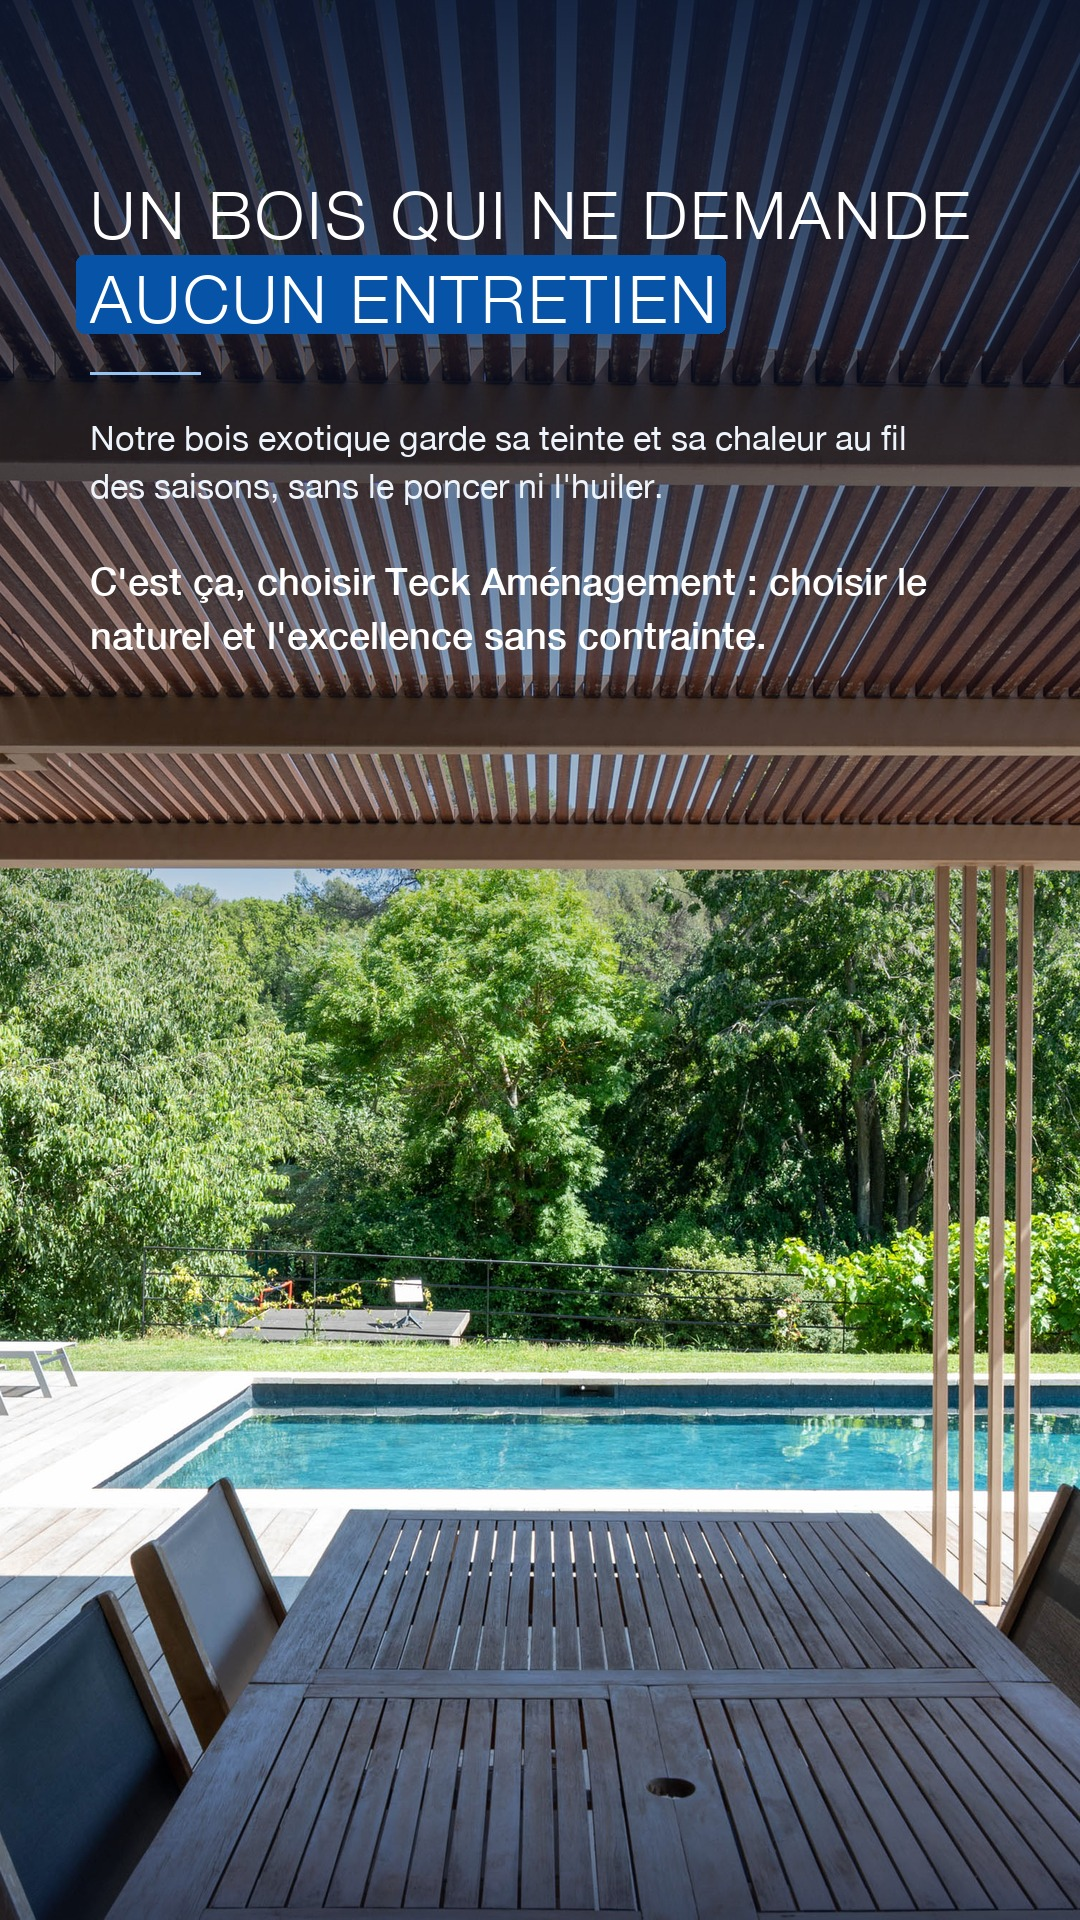
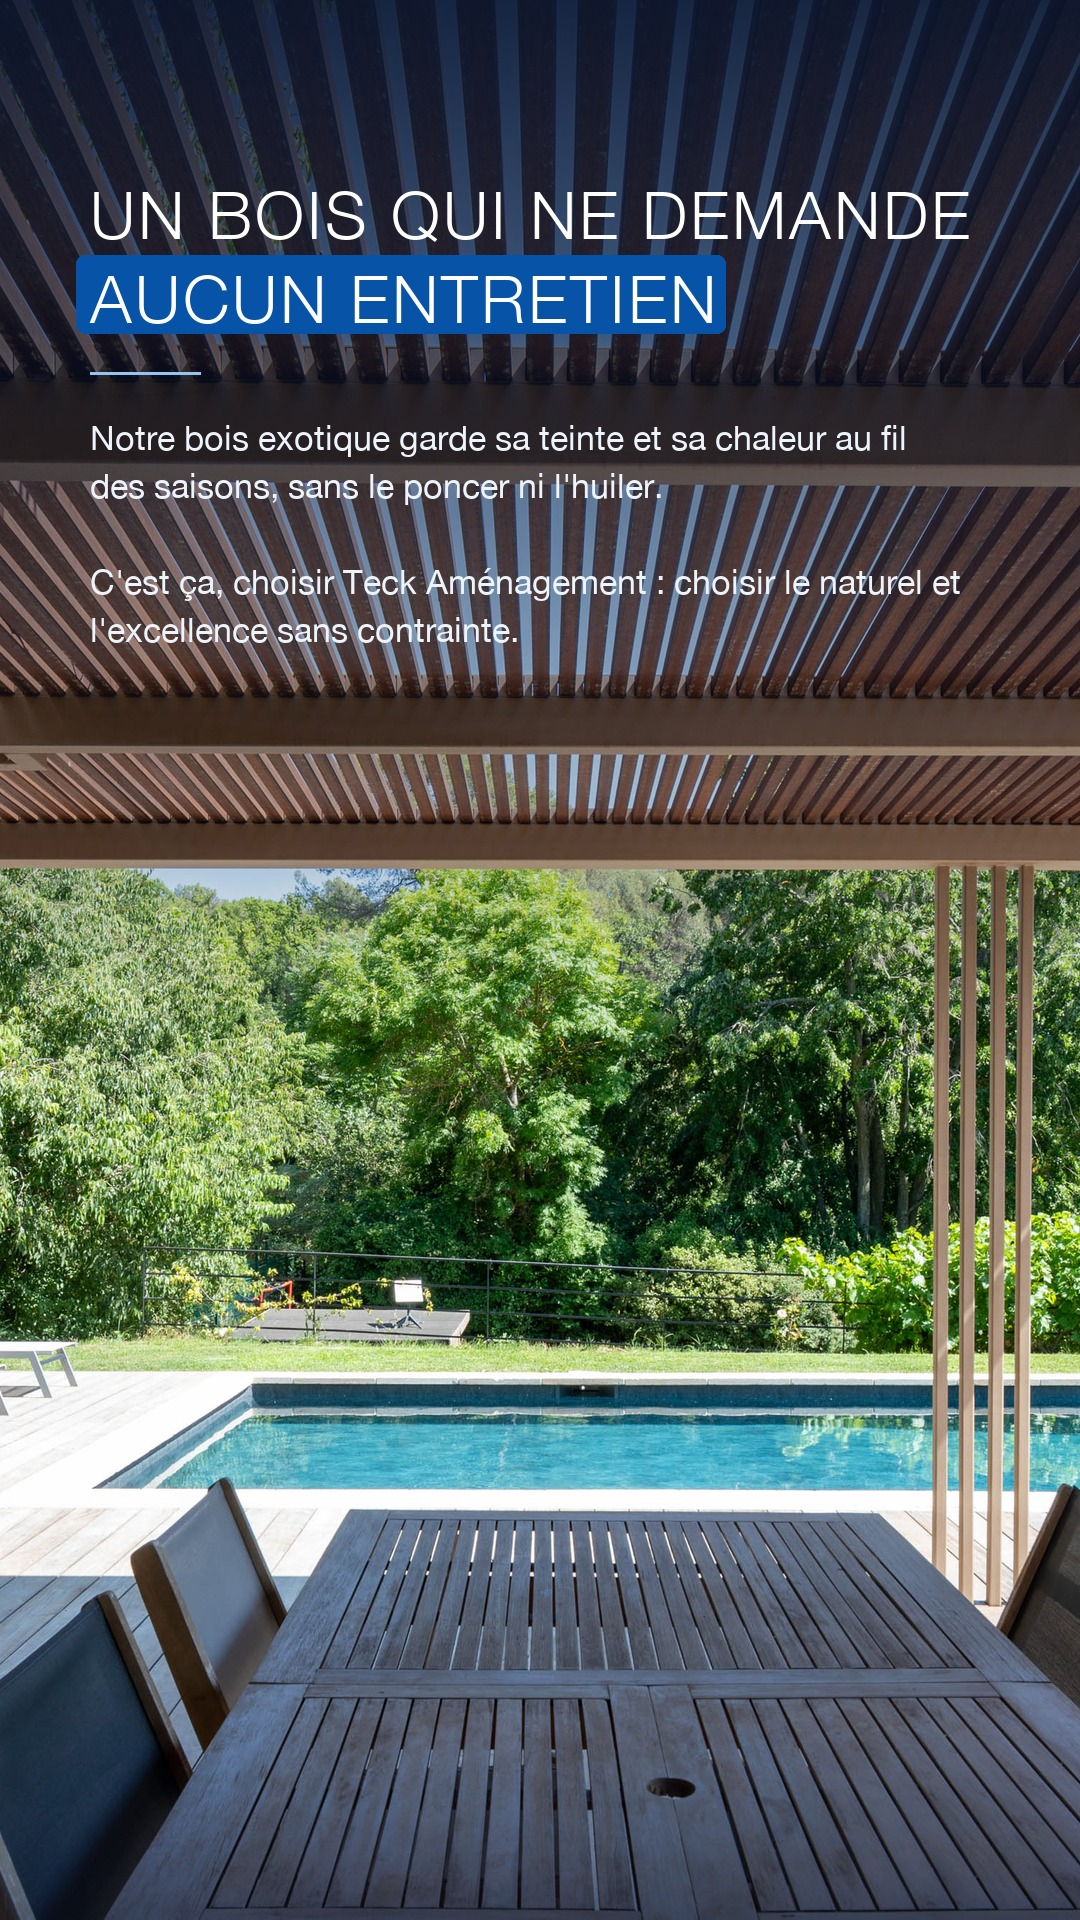
Stories : police unifiée sur S9, et visuels non recadrés dans le calendrier
Sur la story S9, le paragraphe de chute était en Helvetica Medium 38px alors
que l'info au-dessus était en Regular 34px. Les deux sont désormais dans la
même police et la même taille, c'est un seul bloc de texte.

Le calendrier recadrait toutes les vignettes en 4:5, donc une story en 9:16
arrivait tronquée chez le client. Chaque visuel garde maintenant ses vraies
proportions, en carte comme en grand.

Changed region(s): [[0.0917, 0.2812, 0.8861, 0.3438]]

diff --git a/index.html b/index.html
@@ -49,10 +49,15 @@
   .dot{display:inline-block;width:8px;height:8px;border-radius:50%;margin-right:6px;vertical-align:middle}
 
   /* BOARD */
-  .grid{display:grid;grid-template-columns:repeat(auto-fill,minmax(300px,1fr));gap:18px}
+  /* align-items:start — les stories sont en 9:16 et les posts en 4:5, sans ça les
+     cartes courtes s'étirent à la hauteur de la plus grande et laissent un vide. */
+  .grid{display:grid;grid-template-columns:repeat(auto-fill,minmax(300px,1fr));gap:18px;align-items:start}
   .card{background:var(--panel);border:1px solid var(--line);border-radius:16px;overflow:hidden;box-shadow:var(--shadow);display:flex;flex-direction:column}
-  .thumb{aspect-ratio:4/5;background:#e9eff7 center/cover no-repeat;position:relative;cursor:pointer}
-  .thumb.ph{display:flex;align-items:center;justify-content:center;color:#9aa2b1;font-size:13px;text-align:center;padding:16px;flex-direction:column;gap:6px}
+  /* Aucune vignette n'est recadrée : chaque visuel garde ses vraies proportions
+     (post 4:5, story 9:16…), pour que le client voie exactement ce qui sortira. */
+  .thumb{background:#e9eff7;position:relative;cursor:pointer;line-height:0}
+  .thumb img{width:100%;height:auto;display:block}
+  .thumb.ph{aspect-ratio:4/5;line-height:1.5;display:flex;align-items:center;justify-content:center;color:#9aa2b1;font-size:13px;text-align:center;padding:16px;flex-direction:column;gap:6px}
   .num{position:absolute;top:10px;left:10px;background:rgba(6,83,168,.9);color:#fff;font-size:12px;font-weight:700;border-radius:8px;padding:3px 8px;backdrop-filter:blur(4px)}
   .pill{position:absolute;top:10px;right:10px;font-size:11px;font-weight:700;border-radius:999px;padding:4px 10px;color:#fff}
   .cbody{padding:14px 15px 16px;display:flex;flex-direction:column;gap:10px;flex:1}
@@ -504,7 +509,7 @@ function renderBoard(){
     const bl=bodyLen(p.cap), bad=bl<150||bl>400;
     const tag = `<span class="num" style="background:${ty.color}">${ty.icon} ${ty.short} #${p.num}</span>`;
     const thumb = p.img
-      ? `<div class="thumb" style="${bg(p)}" onclick="openModal('${p.id}')">${tag}<span class="pill" style="background:${stt.color}">${stt.label}</span></div>`
+      ? `<div class="thumb" onclick="openModal('${p.id}')"><img src="${p.img}" alt="">${tag}<span class="pill" style="background:${stt.color}">${stt.label}</span></div>`
       : `<div class="thumb ph" onclick="openModal('${p.id}')">${tag}<span class="pill" style="background:${stt.color}">${stt.label}</span><span>${p.phLabel||'🖼️ Photo à lier'}</span></div>`;
     const warn = p.warn?`<div class="warn">⚠️ ${esc(p.warn)}</div>`:"";
     // Le calibrage 150-400 caractères ne concerne que les légendes de posts photo.
@@ -537,7 +542,10 @@ function setHeure(id,v){ state[id].heure=v; save(); if(view==='cal')renderCal();
 function openModal(id){
   const p=POSTS.find(x=>x.id===id), s=st(p), stt=STATUS[s.status], ty=TYPES[p.type], bl=bodyLen(p.cap);
   const mImg=document.getElementById("mImg");
-  mImg.style.cssText = p.img?bg(p):"background:#e9eff7";
+  // En grand aussi, le visuel est montré en entier (contain sur fond navy) : le
+  // client doit voir exactement ce qui sortira, pas une version recadrée.
+  const fit = `${bg(p)};background-size:contain;background-repeat:no-repeat;background-position:center;background-color:#0A1F44;min-height:70vh`;
+  mImg.style.cssText = p.img?fit:"background:#e9eff7";
   setH(mImg, p.img?"":"<div style='display:flex;height:100%;align-items:center;justify-content:center;color:#9aa2b1'>"+(p.phLabel||"Photo à lier")+"</div>");
   document.getElementById("mAngle").textContent = ty.icon+" "+ty.label+" #"+p.num+" · "+p.angle;
   setH(document.getElementById("mMeta"), `<span class="pill" style="position:static;background:${ty.color}">${ty.short}</span> <span class="pill" style="position:static;background:${stt.color}">${stt.label}</span> <span>${s.date||"non planifié"}${s.heure?" · "+s.heure:""}</span>`);